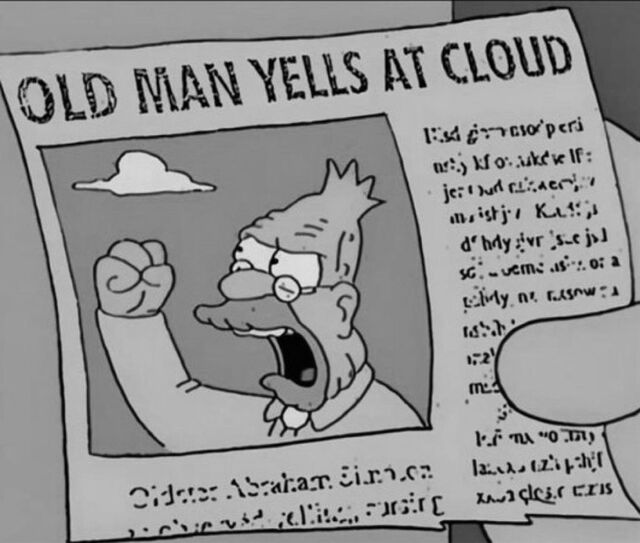
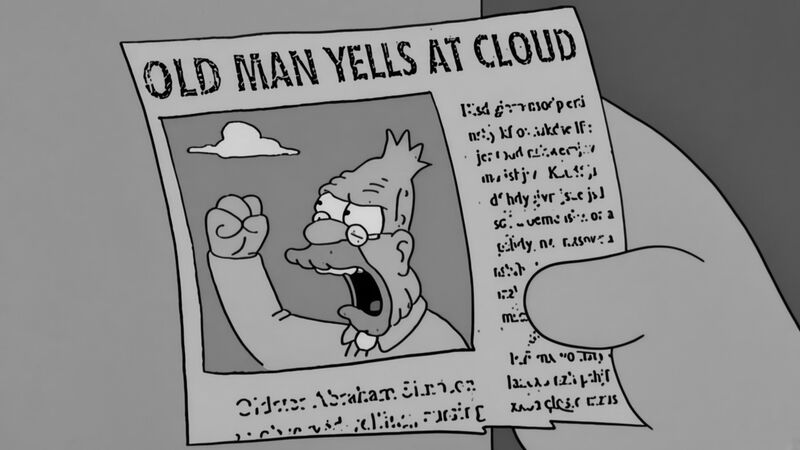
Deck: The TV's black-and-white channel shows the frame widened to 16:9, filling the screen without bars

diff --git a/src/features/deck/art/MemeTV.tsx b/src/features/deck/art/MemeTV.tsx
@@ -7,7 +7,7 @@ const NOTE =
 
 const SCREEN = { x: 12, y: 12, w: 216, h: 112 };
 
-/** The real frame, a 4:3 still pillarboxed on the wide screen. */
+/** The real frame, widened to 16:9 and filling the screen. */
 const PHOTO = "/images/deck/old-man-yells-at-cloud.jpg";
 
 const CHANNELS = ["the Old Man Yells at Cloud meme, drawn", "the Old Man Yells at Cloud frame, in black and white"];
@@ -183,7 +183,7 @@ export function MemeTV({ playing = false }: { playing?: boolean }): ReactElement
               y={SCREEN.y}
               width={SCREEN.w}
               height={SCREEN.h}
-              preserveAspectRatio="xMidYMid meet"
+              preserveAspectRatio="xMidYMid slice"
             />
           )}
           {flips > 0 ? (
